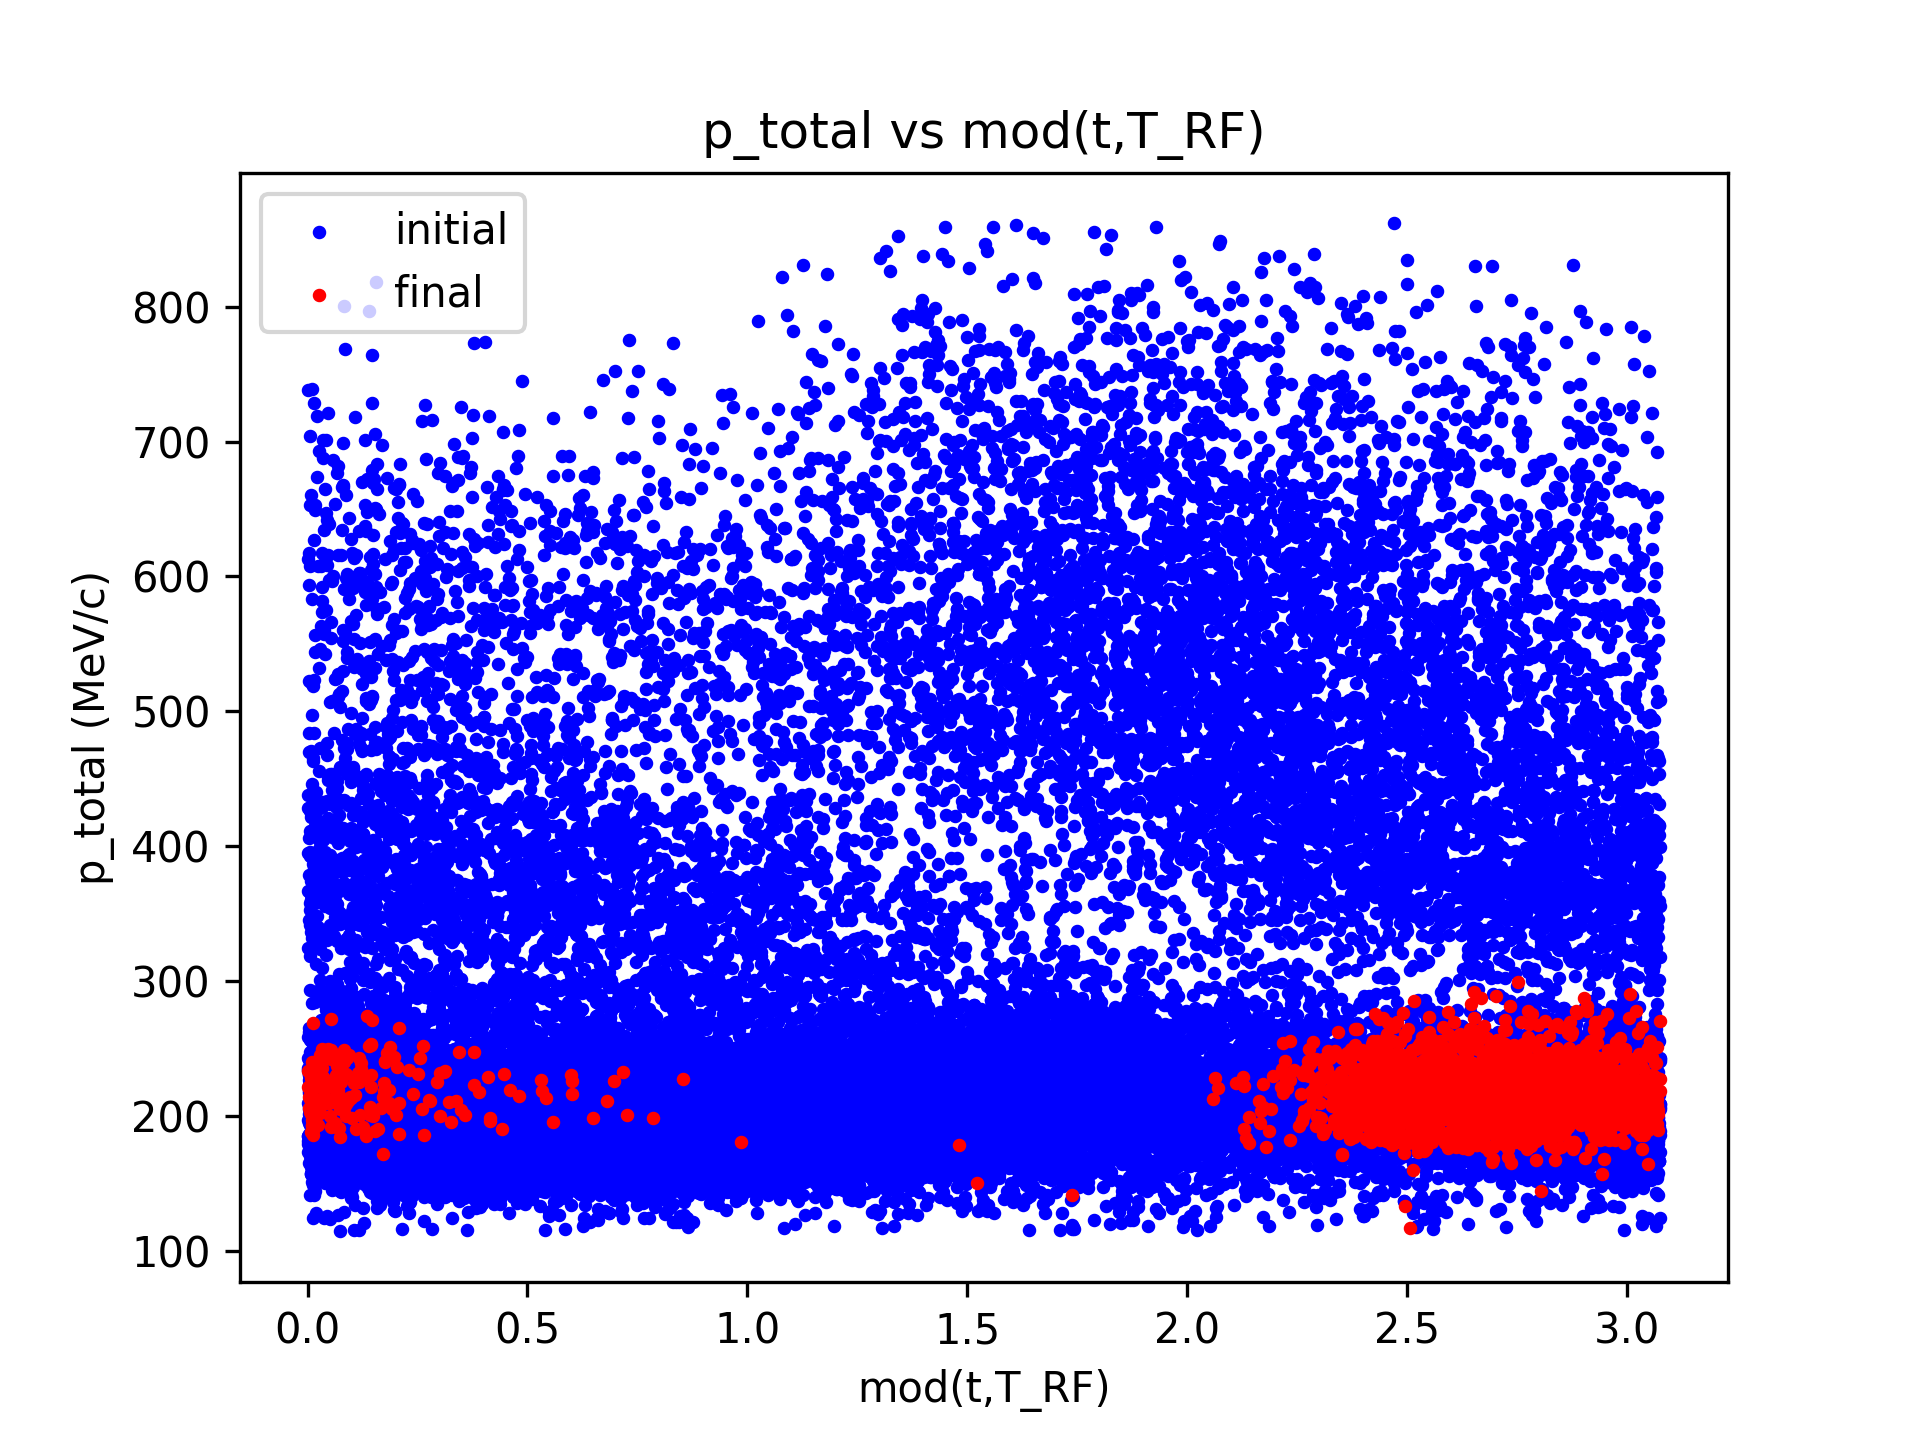
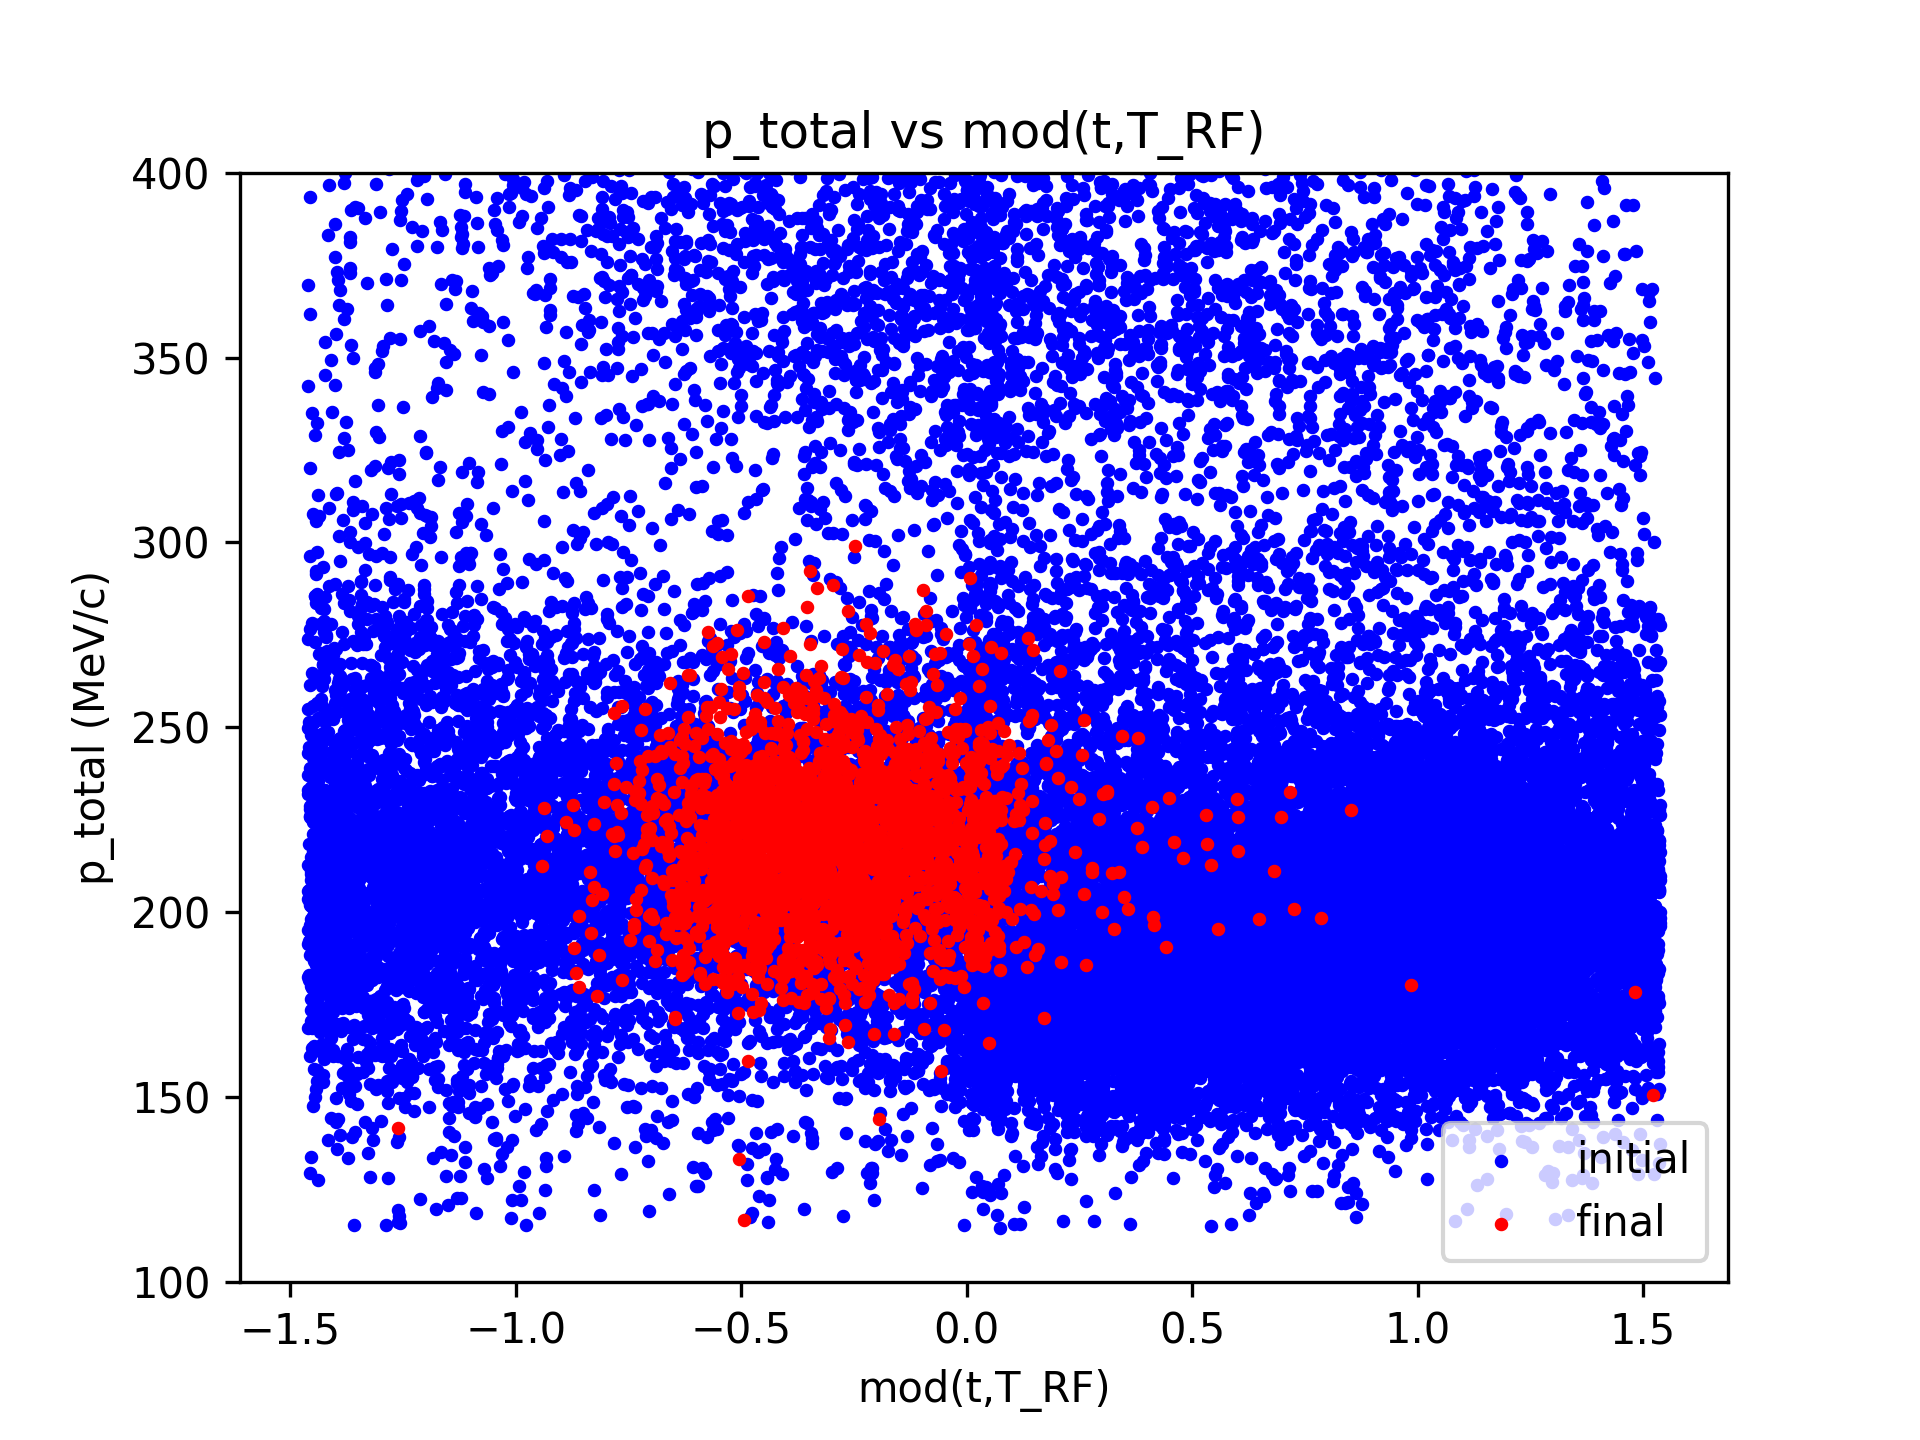
Updating axis ranges on phase space distribution plots

diff --git a/HFOFO-G4bl/plot.py b/HFOFO-G4bl/plot.py
@@ -1,5 +1,6 @@
 import numpy as np
 from matplotlib import pyplot as plt
+import math
 
 # RF period (325 MHz frequency):
 T = 1/(325*10**6)*10**9 # ns
@@ -21,9 +22,15 @@ for i in range(initial_data.shape[0]):
     pyi.append(py)
     pzi.append(pz)
     ptotali.append(np.sqrt(px**2+py**2+pz**2))
+    # ptotali.append(np.sqrt(px**2+py**2))
     t = initial_data[i][6]
     ti.append(t) # ns
-    mod_ti.append(t % T)
+    mod_t = t % T
+    if mod_t > T/2:
+        mod_ti.append(mod_t-3.0)
+    else:
+        mod_ti.append(mod_t)
+    # mod_ti.append(mod_t)
     del px, py, pz, t
 
 # Values for final detector:
@@ -39,9 +46,15 @@ for i in range(final_data.shape[0]):
     pyf.append(py)
     pzf.append(pz)
     ptotalf.append(np.sqrt(px**2+py**2+pz**2))
+    # ptotalf.append(np.sqrt(px**2+py**2))
     t = final_data[i][6]
     tf.append(t) # ns
-    mod_tf.append(t % T)
+    mod_t = t % T
+    if mod_t > T/2:
+        mod_tf.append(mod_t-3.0)
+    else:
+        mod_tf.append(mod_t)
+    # mod_tf.append(mod_t)
     del px, py, pz, t
 
 # Plot px vs x:
@@ -49,7 +62,8 @@ plt.figure(1)
 point_size = 5
 plt.scatter(xi,pxi,color='blue',label='initial',s=point_size)
 plt.scatter(xf,pxf,color='red',label='final',s=point_size)
-# plt.ylim(-100,100)
+plt.xlim(-30,30)
+plt.ylim(-100,100)
 plt.xlabel('x (cm)')
 plt.ylabel('p_x (MeV/c)')
 plt.legend()
@@ -60,7 +74,8 @@ plt.savefig('px_vs_x.png',dpi=300)
 plt.figure(2)
 plt.scatter(yi,pyi,color='blue',label='initial',s=point_size)
 plt.scatter(yf,pyf,color='red',label='final',s=point_size)
-# plt.ylim(-100,100)
+plt.xlim(-30,30)
+plt.ylim(-100,100)
 plt.xlabel('y (cm)')
 plt.ylabel('p_y (MeV/c)')
 plt.legend()
@@ -71,6 +86,7 @@ plt.savefig('py_vs_y.png',dpi=300)
 plt.figure(3)
 plt.scatter(mod_ti,ptotali,color='blue',label='initial',s=point_size)
 plt.scatter(mod_tf,ptotalf,color='red',label='final',s=point_size)
+plt.ylim(100,400)
 plt.xlabel('mod(t,T_RF)')
 plt.ylabel('p_total (MeV/c)')
 plt.legend()

diff --git a/Yuri%27s_files/plot.py b/Yuri%27s_files/plot.py
@@ -49,6 +49,7 @@ plt.figure(1)
 point_size = 5
 plt.scatter(xi,pxi,color='blue',label='initial',s=point_size)
 plt.scatter(xf,pxf,color='red',label='final',s=point_size)
+plt.xlim(-30,30)
 plt.ylim(-100,100)
 plt.xlabel('x (cm)')
 plt.ylabel('p_x (MeV/c)')
@@ -60,6 +61,7 @@ plt.savefig('px_vs_x.png',dpi=300)
 plt.figure(2)
 plt.scatter(yi,pyi,color='blue',label='initial',s=point_size)
 plt.scatter(yf,pyf,color='red',label='final',s=point_size)
+plt.xlim(-30,30)
 plt.ylim(-100,100)
 plt.xlabel('y (cm)')
 plt.ylabel('p_y (MeV/c)')
@@ -71,7 +73,7 @@ plt.savefig('py_vs_y.png',dpi=300)
 plt.figure(3)
 plt.scatter(mod_ti,ptotali,color='blue',label='initial',s=point_size)
 plt.scatter(mod_tf,ptotalf,color='red',label='final',s=point_size)
-# plt.ylim(0,400)
+plt.ylim(100,400)
 plt.xlabel('mod(t,T_RF)')
 plt.ylabel('p_total (MeV/c)')
 plt.legend()
